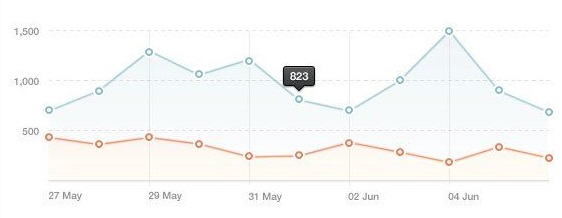
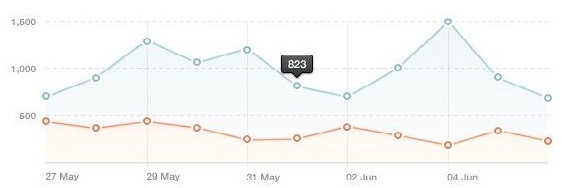
media query done

diff --git a/src/App.css b/src/App.css
@@ -102,19 +102,13 @@ p i {
 
 main {
   background-color: #f5f4f4;
-  border: 1px solid #dddddd;
+  border-left: 1px solid #dddddd;
+  border-right: 1px solid #dddddd;
   padding: 2em;
   display: flex;
   flex-direction: column;
   justify-content: flex-start;
   gap: 1em;
-  overflow-y: scroll;
-  -ms-overflow-style: none;
-  scrollbar-width: none;
-}
-
-main::-webkit-scrollbar {
-  display: none;
 }
 
 .members {
@@ -203,13 +197,15 @@ main::-webkit-scrollbar {
 }
 
 .analytics-left {
-  display: grid;
-  grid-template-rows: auto 1fr 1fr;
+  display: flex;
+  flex-wrap: wrap;
+  height: 300px;
   gap: 1em;
-  height: 400px;
 }
+
 .line-chart {
   width: 100%;
+  height: 50%;
 }
 
 .line-chart img {
@@ -217,11 +213,12 @@ main::-webkit-scrollbar {
 }
 
 .formation {
+  height: 50%;
   display: grid;
   grid-template-columns: 2fr 1fr 1fr;
-  height: 130px;
   gap: 1em;
   font-size: 0.7em;
+  margin-top: 0.5em;
 }
 
 .strange-clouds {
@@ -232,6 +229,7 @@ main::-webkit-scrollbar {
   background-color: #f2e8ff;
   border-radius: 8px;
   gap: 1em;
+  height: 135px;
 }
 
 .formation-top {
@@ -253,6 +251,7 @@ main::-webkit-scrollbar {
   align-items: center;
   justify-content: center;
   color: #ffffff;
+  cursor: pointer;
 }
 
 .formation-pause {
@@ -269,6 +268,7 @@ main::-webkit-scrollbar {
   background-color: #ffffff;
   border-radius: 8px;
   gap: 4em;
+  height: 135px;
 }
 
 .white-card-button {
@@ -284,7 +284,7 @@ main::-webkit-scrollbar {
   align-items: center;
   margin-top: 1em;
   padding: 1em;
-  height: 82%;
+  height: 300px;
   border-radius: 8px;
 }
 
@@ -382,6 +382,7 @@ main::-webkit-scrollbar {
   display: flex;
   align-items: center;
   justify-content: center;
+  cursor: pointer;
 }
 
 .profile-details {
@@ -478,6 +479,7 @@ button {
 .photos {
   border-radius: 12px;
   padding: 1em;
+  cursor: pointer;
 }
 
 .videos {
@@ -497,4 +499,76 @@ button {
 
 .gallery-images img {
   width: 100%;
+}
+
+.bottom-nav {
+  display: none;
+}
+
+.bottom-nav i {
+  cursor: pointer;
+}
+
+@media only screen and (max-width: 1038px) {
+  .App {
+    height: max-content;
+    display: flex;
+    flex-wrap: wrap-reverse;
+    justify-content: center;
+  }
+
+  .analytics {
+    margin-bottom: 6em;
+  }
+
+  .formation {
+    width: 100%;
+  }
+
+  .last-thirty-days {
+    height: 307px;
+  }
+
+  .profile {
+    height: 420px;
+  }
+
+  .navbar {
+    display: none;
+  }
+
+  .bottom-nav {
+    display: flex;
+    justify-content: space-around;
+    align-items: center;
+    width: 100%;
+    height: 60px;
+    padding: 1em;
+    position: fixed;
+    bottom: 0;
+    background-color: #ffffff;
+  }
+
+  main {
+    margin-top: 1em;
+  }
+}
+
+@media only screen and (max-width: 896px) {
+  main {
+    padding-bottom: 1em;
+  }
+}
+
+@media only screen and (max-width: 556px) {
+  .analytics {
+    display: flex;
+    flex-wrap: wrap;
+    gap: 3em;
+    height: auto;
+  }
+
+  .analytics-right {
+    width: 100%;
+  }
 }

diff --git a/src/components/BottomNav.js b/src/components/BottomNav.js
@@ -1,0 +1,16 @@
+function BottomNav() {
+  return (
+    <section className="bottom-nav">
+      <i className="fa-solid fa-table-columns"></i>
+      <i className="fa-solid fa-calendar-days"></i>
+      <i className="fa-solid fa-gear"></i>
+      <i className="fa-solid fa-circle-plus"></i>
+      <i className="fa-regular fa-square-check"></i>
+      <i className="fa-regular fa-clock"></i>
+      <i className="fa-regular fa-bookmark"></i>
+      <i className="fa-solid fa-plus"></i>
+    </section>
+  );
+}
+
+export default BottomNav;

diff --git a/src/App.js b/src/App.js
@@ -2,6 +2,7 @@ import "./App.css";
 import Navigation from "./components/Navigation";
 import Main from "./components/Main";
 import Profile from "./components/Profile";
+import BottomNav from "./components/BottomNav";
 
 function App() {
   return (
@@ -9,6 +10,7 @@ function App() {
       <Navigation />
       <Main />
       <Profile />
+      <BottomNav />
     </div>
   );
 }
